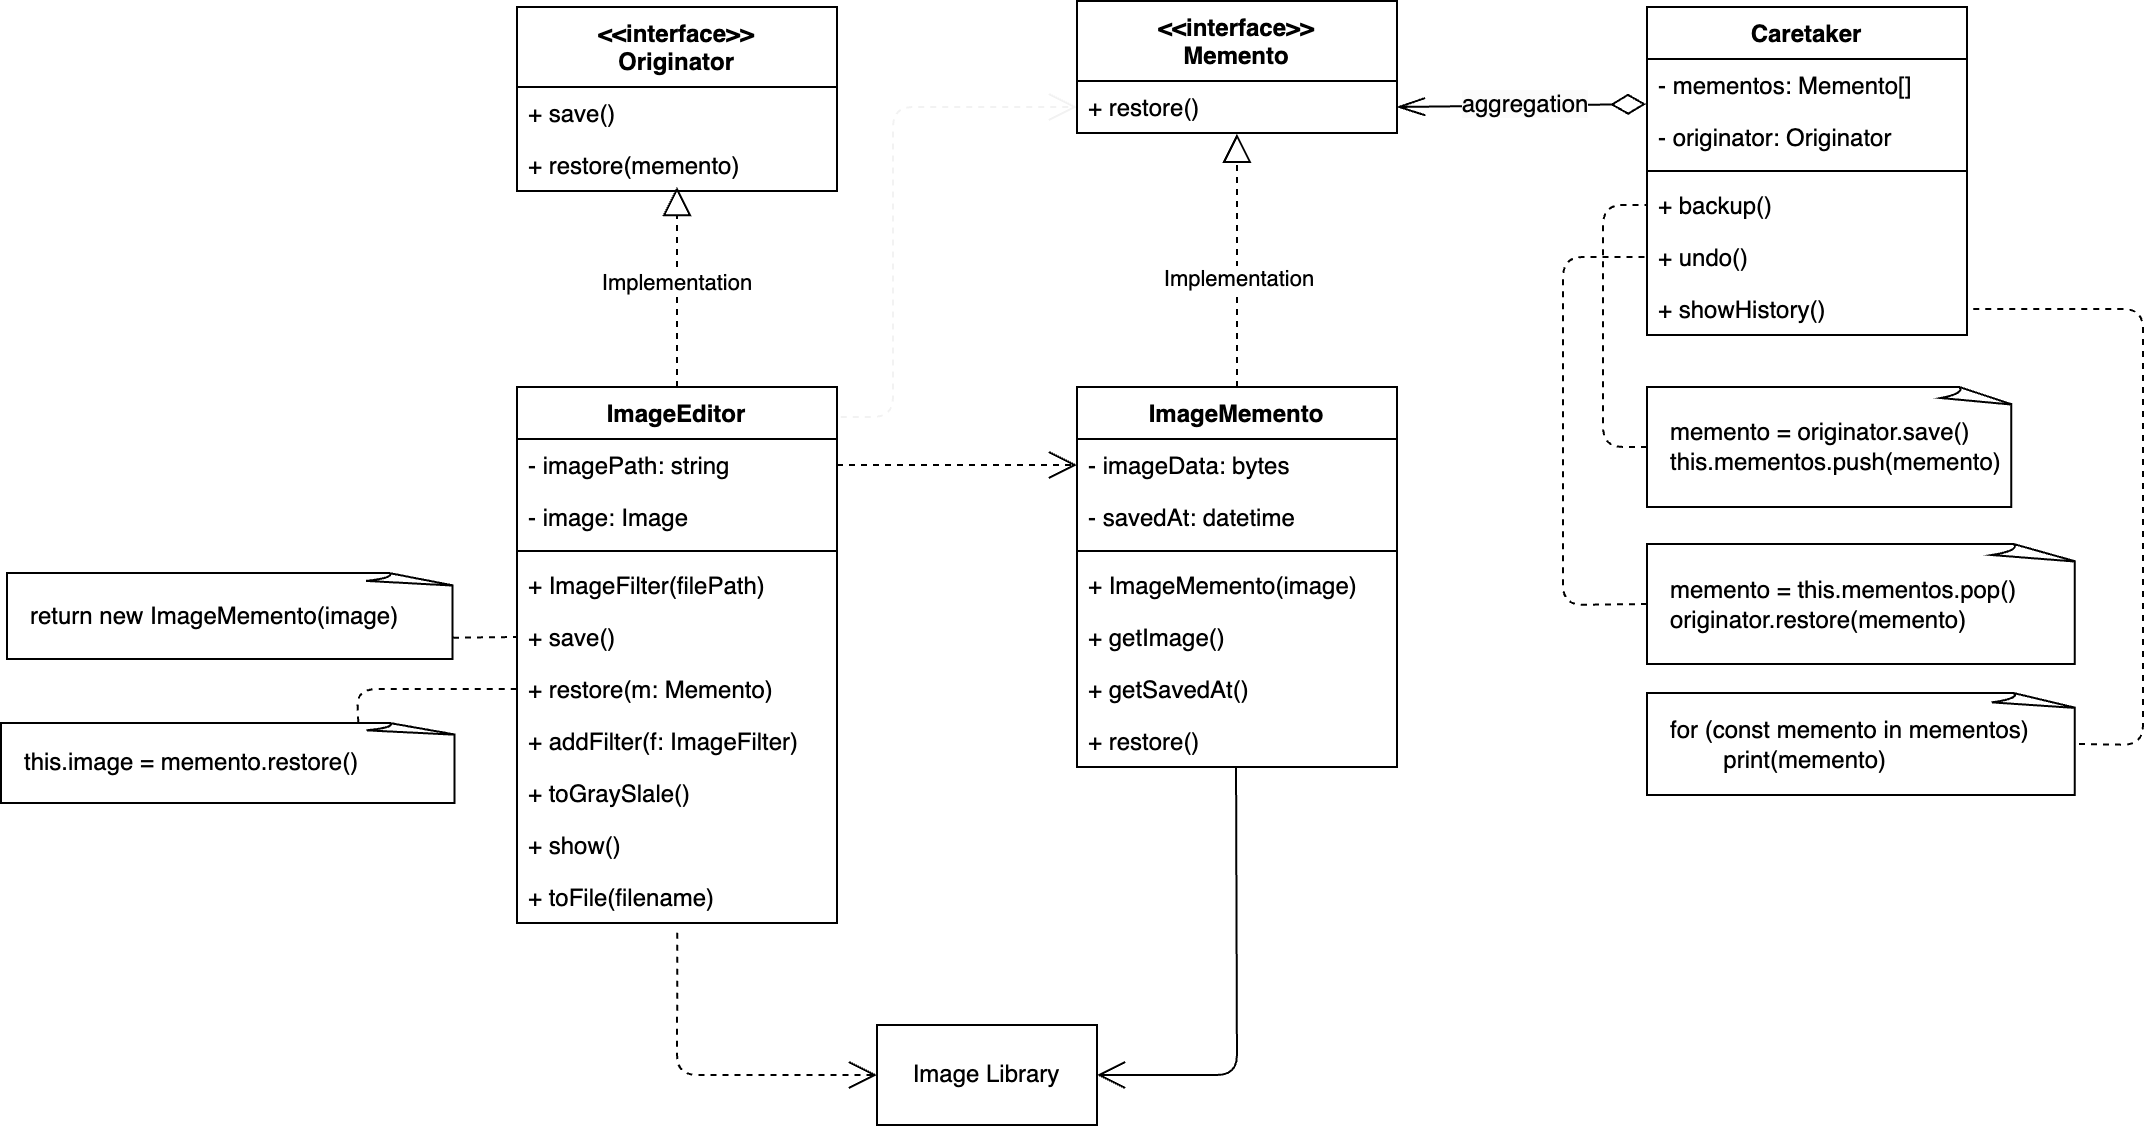
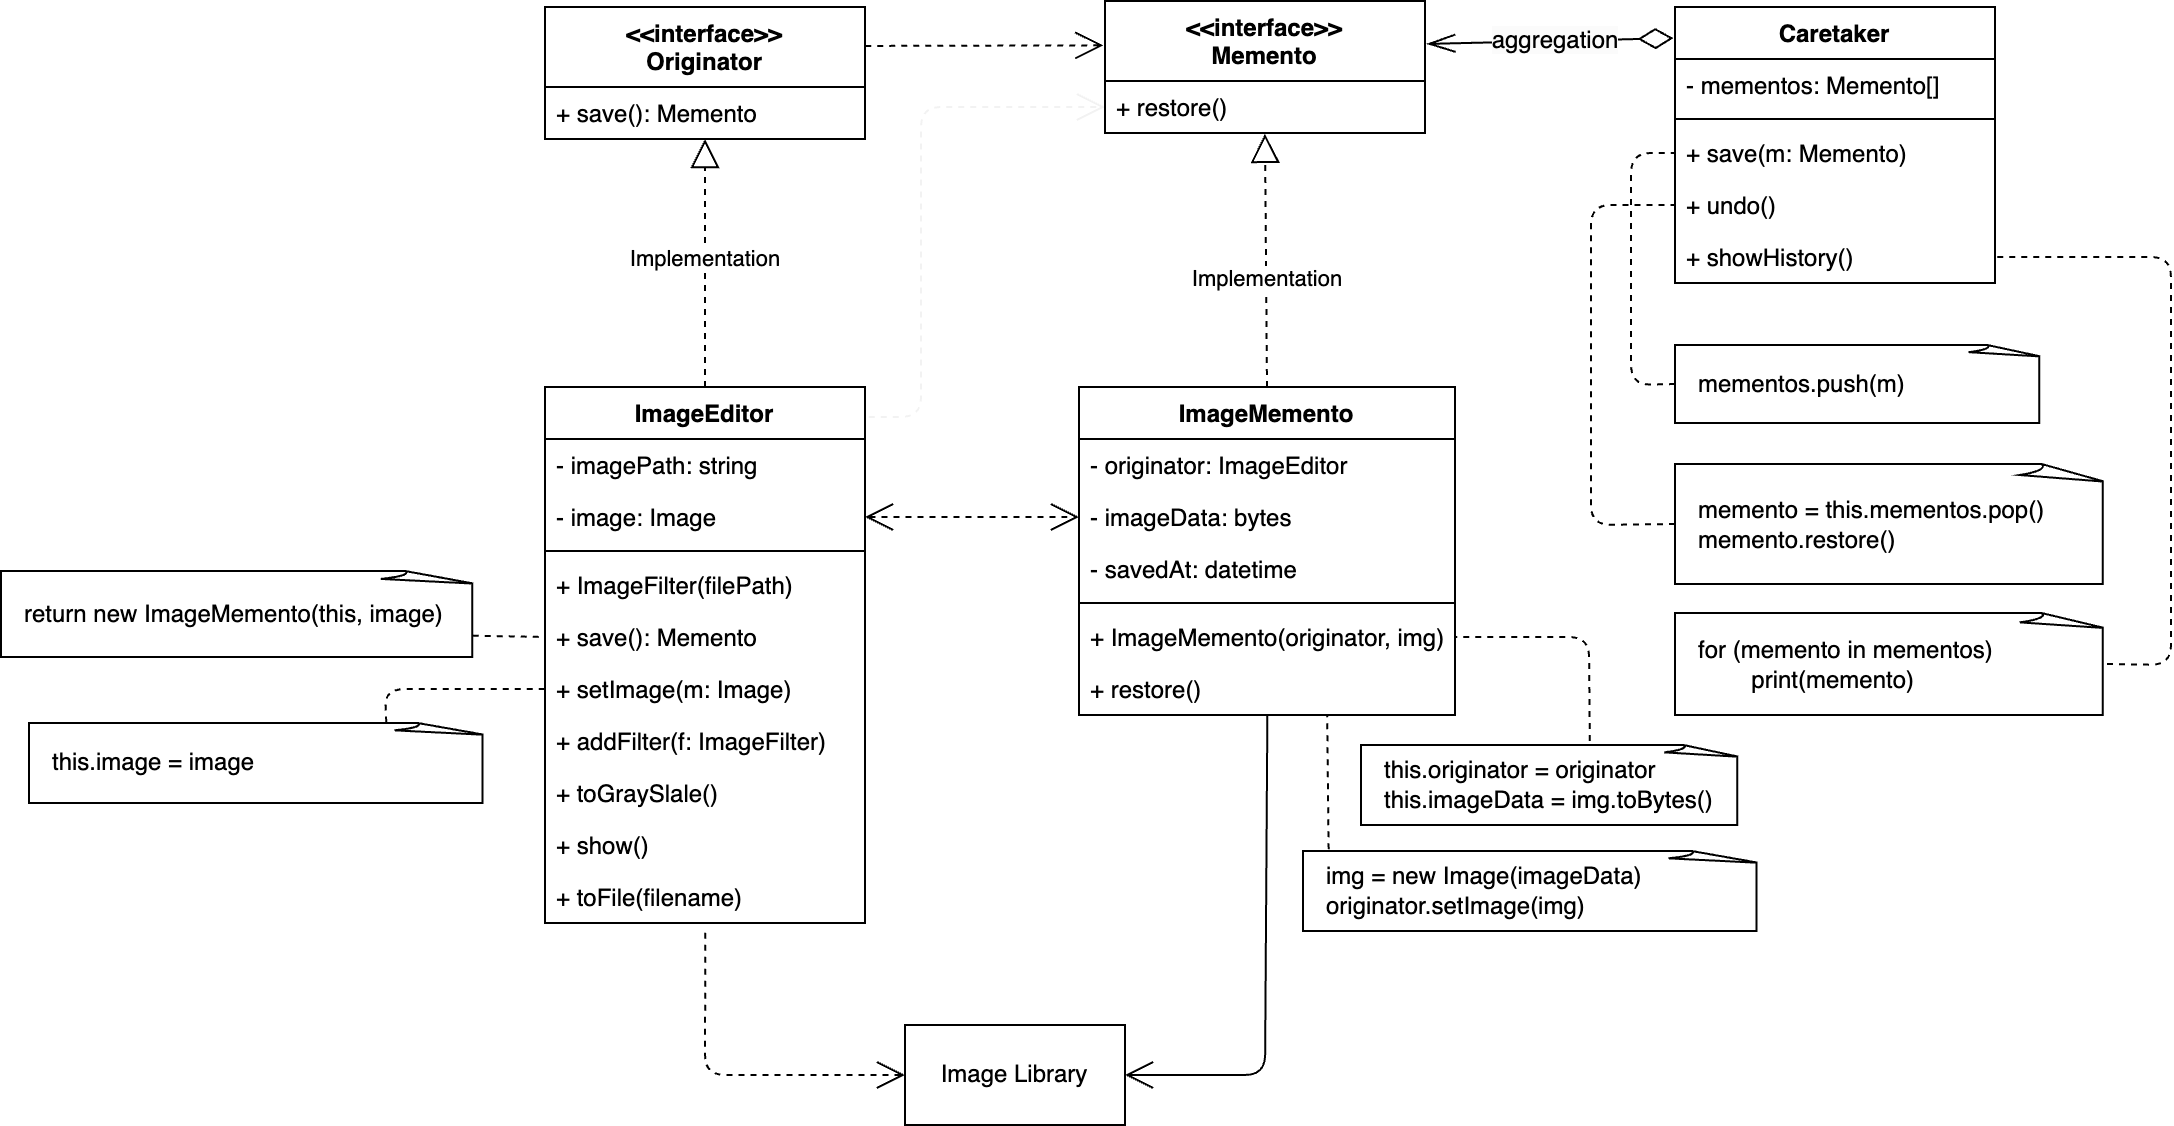
refactor(memento): Implementation with even stricter encapsulation

diff --git a/patterns/behavioral/memento/pattern.py b/patterns/behavioral/memento/pattern.py
@@ -15,56 +15,43 @@ class Memento(ABC):
 
 
 class ImageMemento(Memento):
-    def __init__(self, image: Image.Image) -> None:
+    def __init__(self, originator: ImageEditor, image: Image.Image) -> None:
+        self.originator = originator
         self.image_data = io.BytesIO()
         image.save(self.image_data, format='PNG')
         self.image_data.seek(0)
         self._saved_at = datetime.now()
 
     def __repr__(self) -> str:
-        return f'<{self.__class__.__name__} saved_at={self.saved_at.strftime("%Y-%m-%d %H:%M:%S")!r}>'
-
-    @property
-    def saved_at(self) -> datetime:
-        return self._saved_at
+        return f'<{self.__class__.__name__} saved_at={self._saved_at.strftime("%Y-%m-%d %H:%M:%S")!r}>'
 
     @override
-    def restore(self) -> Image.Image:
-        return Image.open(io.BytesIO(self.image_data.getvalue()))
-
-
-class Caretaker:
-    def __init__(self, originator: Originator) -> None:
-        self._mementos: list[Memento] = []
-        self._originator = originator
-
-    def backup(self) -> None:
-        print("\nCaretaker: saving originator's state...")
-        memento = self._originator.save()
-        self._mementos.append(memento)
-
-    def undo(self) -> None:
-        if not len(self._mementos):
-            return
-
-        memento = self._mementos.pop()
-        try:
-            self._originator.restore(memento)
-        except Exception:
-            self.undo()
-
-    def show_history(self) -> None:
-        print("Caretaker: Here's the list of mementos:")
-        for memento in self._mementos:
-            print(memento)
+    def restore(self) -> None:
+        img = Image.open(io.BytesIO(self.image_data.getvalue()))
+        self.originator.set_image(img)
 
 
 class Originator(ABC):
     @abstractmethod
     def save(self) -> Any: ...
 
-    @abstractmethod
-    def restore(self, memento: Memento) -> None: ...
+
+class Caretaker:
+    def __init__(self) -> None:
+        self._mementos: list[Memento] = []
+
+    def save(self, memento: Memento) -> None:
+        self._mementos.append(memento)
+
+    def undo(self) -> None:
+        if not len(self._mementos):
+            return
+        self._mementos.pop().restore()
+
+    def show_history(self) -> None:
+        print("Caretaker: Here's the list of mementos:")
+        for memento in self._mementos:
+            print(memento)
 
 
 class ImageEditor(Originator):
@@ -74,11 +61,10 @@ class ImageEditor(Originator):
 
     @override
     def save(self) -> ImageMemento:
-        return ImageMemento(self.image)
+        return ImageMemento(self, self.image)
 
-    @override
-    def restore(self, memento: Memento) -> None:
-        self.image = memento.restore()
+    def set_image(self, image: Image.Image) -> None:
+        self.image = image  # type: ignore[assignment]
 
     def add_filter(self, pil_filter: ImageFilter) -> None:  # type: ignore[valid-type]
         self.image = self.image.filter(pil_filter)  # type: ignore[assignment]
